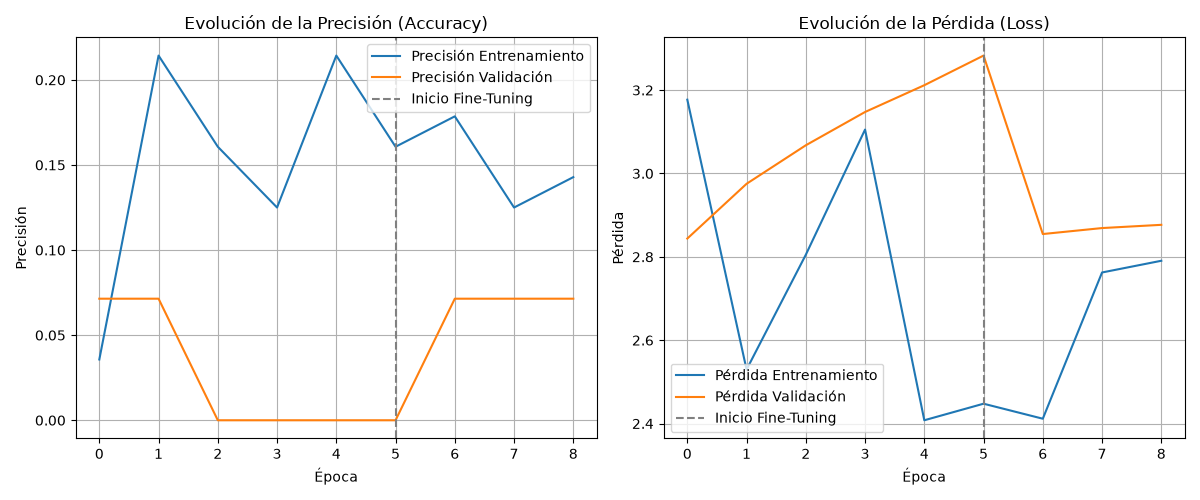
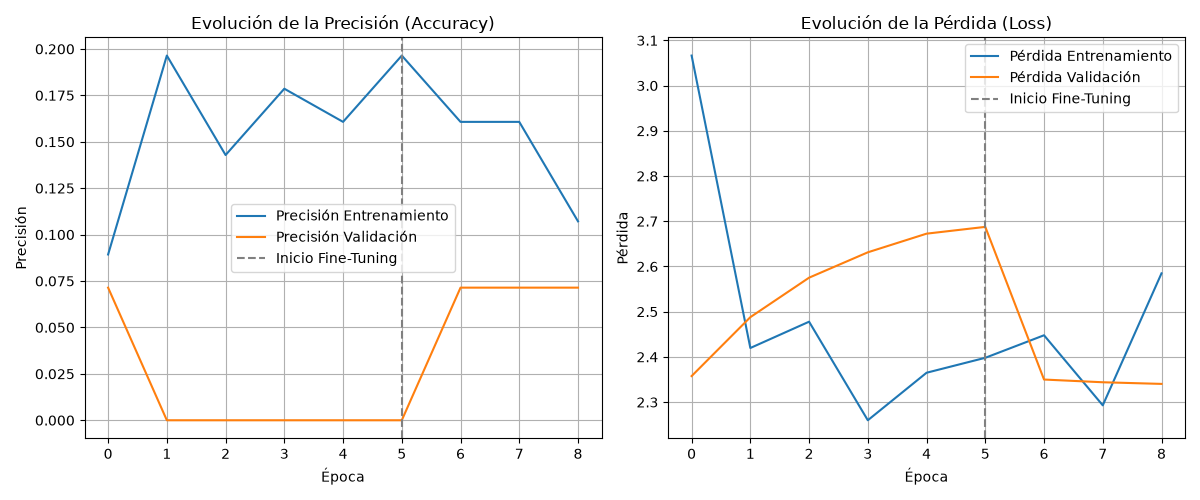
Actualizando

diff --git a/floravision.py b/floravision.py
@@ -74,13 +74,13 @@ def matriz_a_base64(imagen_np: np.ndarray, max_dim: int = 350) -> str:
         return ""
 
 IMAGENES_DEMO_FLORES = {
-    "Rosa": "https://images.unsplash.com/photo-1518709268805-4e9042af9f23?auto=format&fit=crop&w=400&q=80",
-    "Orquídea": "https://images.unsplash.com/photo-1525310072745-f49212b5ac6d?auto=format&fit=crop&w=400&q=80",
-    "Girasol": "https://images.unsplash.com/photo-1597848212624-a19eb35e2651?auto=format&fit=crop&w=400&q=80",
-    "Tulipán": "https://images.unsplash.com/photo-1520763185298-1b434c919102?auto=format&fit=crop&w=400&q=80",
-    "Margarita": "https://images.unsplash.com/photo-1606041008023-472dfb5e530f?auto=format&fit=crop&w=400&q=80",
-    "Clavel": "https://images.unsplash.com/photo-1582794543139-8ac9cb0f7b11?auto=format&fit=crop&w=400&q=80",
-    "Lirio": "https://images.unsplash.com/photo-1508610048659-a06b669e3321?auto=format&fit=crop&w=400&q=80",
+    "Rosa":     "https://images.unsplash.com/photo-1559563362-c667ba5f5480?auto=format&fit=crop&w=400&q=80",  # Rosa roja ✓
+    "Orquídea": "https://images.unsplash.com/photo-1566907225033-30b7e7f9ec0d?auto=format&fit=crop&w=400&q=80",  # Orquídea ✓
+    "Girasol":  "https://images.unsplash.com/photo-1597848212624-a19eb35e2651?auto=format&fit=crop&w=400&q=80",  # Girasol ✓
+    "Tulipán":  "https://images.unsplash.com/photo-1457296898342-cdd24585d095?auto=format&fit=crop&w=400&q=80",  # Tulipanes ✓
+    "Margarita":"https://images.unsplash.com/photo-1606041008023-472dfb5e530f?auto=format&fit=crop&w=400&q=80",  # Margarita ✓
+    "Clavel":   "https://images.unsplash.com/photo-1589994160839-163f4b26d962?auto=format&fit=crop&w=400&q=80",  # Clavel ✓
+    "Lirio":    "https://images.unsplash.com/photo-1570913149827-d2ac84ab3f9a?auto=format&fit=crop&w=400&q=80",  # Lirio ✓
 }
 
 from agentefloravision import AgenteFloraVision, PRECIOS_BASE
@@ -168,12 +168,18 @@ st.markdown(
             border-color: {MAROON} !important;
             transform: translateY(-1px);
         }}
+        /* Forzar texto oscuro en el botón FloraVision usando data-testid de máxima especificidad */
+        [data-testid="stSidebar"] [data-testid="stBaseButton-secondary"] p,
+        [data-testid="stSidebar"] [data-testid="stBaseButton-secondary"] span,
+        [data-testid="stSidebar"] [data-testid="stBaseButton-secondary"] div,
         .logo-btn-container div.stButton > button p,
+        .logo-btn-container div.stButton > button span,
+        .logo-btn-container div.stButton > button div,
         .logo-btn-container p,
         .floravision-logo p {{
             color: {TEXT_MAROON} !important;
             -webkit-text-fill-color: {TEXT_MAROON} !important;
-            font-family: 'Montserrat', sans-serif !important;
+            font-family: 'Georgia', serif !important;
             font-size: 1.8rem !important;
             font-weight: 800 !important;
             letter-spacing: -0.5px !important;
@@ -270,15 +276,10 @@ st.markdown(
             color: #FFFFFF !important;
         }}
 
-        /* Excepción en barra lateral: Logo FloraVision y pastillas del menú con texto oscuro */
+        /* Excepción en barra lateral: Pastillas del menú con texto oscuro */
         div[data-testid="stRadio"] label p,
         div[data-testid="stRadio"] label span,
-        div[data-testid="stRadio"] label div,
-        .logo-btn-container p,
-        .logo-btn-container div.stButton > button p,
-        .logo-btn-container div.stButton > button span,
-        .floravision-logo,
-        .floravision-logo p {{
+        div[data-testid="stRadio"] label div {{
             color: {TEXT_MAROON} !important;
             -webkit-text-fill-color: {TEXT_MAROON} !important;
             font-weight: bold !important;
@@ -341,12 +342,26 @@ st.markdown(
             font-weight: bold !important;
         }}
 
-        /* Selectbox y Dropdowns */
-        [data-testid="stSelectbox"] label,
-        [data-testid="stSelectbox"] div[data-baseweb="select"] span,
-        [data-testid="stSelectbox"] div[data-baseweb="select"] div {{
+        /* Selectbox y Dropdowns: Texto del valor en color claro (CREAM) */
+        [data-testid="stSelectbox"] label {{
             color: {TEXT_MAROON} !important;
             font-weight: 600 !important;
+        }}
+        [data-testid="stSelectbox"] div[data-baseweb="select"] {{
+            background-color: {MAROON} !important;
+            border-radius: 8px !important;
+        }}
+        [data-testid="stSelectbox"] div[data-baseweb="select"] span,
+        [data-testid="stSelectbox"] div[data-baseweb="select"] div,
+        [data-testid="stSelectbox"] div[data-baseweb="select"] div[value],
+        div[data-baseweb="select"] div[value] {{
+            color: {CREAM} !important;
+            -webkit-text-fill-color: {CREAM} !important;
+            font-weight: 600 !important;
+        }}
+        [data-testid="stSelectbox"] div[data-baseweb="select"] svg {{
+            fill: {CREAM} !important;
+            color: {CREAM} !important;
         }}
         [role="listbox"] li, [role="option"] {{
             color: {TEXT_MAROON} !important;
@@ -366,10 +381,39 @@ st.markdown(
             border-color: {MAROON} !important;
         }}
 
-        /* 5. Forzar fondo blanco y borde en File Uploader */
+        /* Botón de la cámara (Take Photo) con texto claro (CREAM) */
+        button[data-testid="stCameraInputButton"],
+        button[data-testid="stCameraInputButton"] *,
+        [data-testid="stCameraInputButton"],
+        [data-testid="stCameraInputButton"] * {{
+            background-color: {MAROON} !important;
+            color: {CREAM} !important;
+            -webkit-text-fill-color: {CREAM} !important;
+            font-weight: bold !important;
+        }}
+        button[data-testid="stCameraInputButton"] svg {{
+            fill: {CREAM} !important;
+            color: {CREAM} !important;
+        }}
+
+        /* File Uploader Dropzone con texto claro (CREAM) */
         [data-testid="stFileUploaderDropzone"] {{
-            background-color: white !important;
+            background-color: {MAROON} !important;
             border: 2px dashed {CARD_BORDER} !important;
+            border-radius: 12px !important;
+        }}
+        [data-testid="stFileUploaderDropzone"] p,
+        [data-testid="stFileUploaderDropzone"] span,
+        [data-testid="stFileUploaderDropzone"] small,
+        [data-testid="stFileUploaderDropzone"] div,
+        [data-testid="stFileUploaderDropzone"] button,
+        [data-testid="stFileUploaderDropzone"] label {{
+            color: {CREAM} !important;
+            -webkit-text-fill-color: {CREAM} !important;
+        }}
+        [data-testid="stFileUploaderDropzone"] svg {{
+            fill: {CREAM} !important;
+            color: {CREAM} !important;
         }}
 
         .main-section-title {{
@@ -400,6 +444,50 @@ st.markdown(
         }}
         .dashboard-box-light * {{
             color: {TEXT_MAROON} !important;
+        }}
+
+        /* EXPANDERS (st.expander): Fondo oscuro bordó y texto claro en el resumen/título del acordeón */
+        [data-testid="stExpander"],
+        details {{
+            background-color: {MAROON} !important;
+            border: 2px solid {CARD_BORDER} !important;
+            border-radius: 16px !important;
+            overflow: hidden !important;
+            margin-bottom: 1rem !important;
+        }}
+        [data-testid="stExpander"] summary,
+        details summary {{
+            background-color: {MAROON} !important;
+            border-radius: 14px !important;
+            padding: 0.75rem 1rem !important;
+            cursor: pointer !important;
+            transition: background-color 0.2s ease !important;
+        }}
+        [data-testid="stExpander"] summary:hover,
+        details summary:hover {{
+            background-color: #7A0040 !important;
+        }}
+        [data-testid="stExpander"] summary,
+        [data-testid="stExpander"] summary p,
+        [data-testid="stExpander"] summary span,
+        [data-testid="stExpander"] summary div,
+        [data-testid="stExpander"] summary svg,
+        details summary,
+        details summary p,
+        details summary span,
+        details summary div,
+        details summary svg {{
+            color: {CREAM} !important;
+            -webkit-text-fill-color: {CREAM} !important;
+            font-weight: 600 !important;
+        }}
+        [data-testid="stExpander"] summary [data-testid="stIconMaterial"],
+        details summary [data-testid="stIconMaterial"],
+        [data-testid="stExpander"] summary svg path,
+        details summary svg path {{
+            color: {CREAM} !important;
+            fill: {CREAM} !important;
+            -webkit-text-fill-color: {CREAM} !important;
         }}
     </style>
     """,
@@ -530,7 +618,6 @@ def render_deteccion():
     st.markdown('<div class="section-title">Deteccion Inteligente</div>', unsafe_allow_html=True)
 
     agente = st.session_state.agente
-    flores_disponibles = [f.capitalize() for f in list(PRECIOS_BASE.keys())]
 
     # ------------------------------------------------------------------
     # COLUMNA IZQUIERDA: Controles (replica los trackbars de cv_taskbar.py)
@@ -539,32 +626,18 @@ def render_deteccion():
 
     with col_ctrl:
         with st.container(border=True):
-            st.markdown(f'<div style="font-family:Georgia,serif;font-weight:bold;font-size:1rem;color:{TEXT_MAROON};margin-bottom:4px;">Tipo de Flor</div>', unsafe_allow_html=True)
-            st.caption("&#129302; La IA identificará la flor automáticamente al cargar la foto. También puedes seleccionarla manualmente.")
-            tipo_flor = st.selectbox(
-                "Tipo de Flor",
-                flores_disponibles,
-                index=0,
-                key="selectbox_flor",
-                label_visibility="collapsed",
-            )
-
-            st.divider()
-
             # Rueda de colores automática en vez de 6 sliders HSV
             st.markdown(f'<div style="font-family:Georgia,serif;font-weight:bold;font-size:1rem;color:{TEXT_MAROON};margin-bottom:4px;">Color de la Flor (Pétalos Sanos)</div>', unsafe_allow_html=True)
             st.caption("Toca el círculo para elegir el color exacto. El sistema calibrará los parámetros de detección automáticamente.")
 
-            if "color_seleccionado" not in st.session_state:
-                st.session_state.color_seleccionado = "#E60000"
             if "cp_flor" not in st.session_state:
-                st.session_state["cp_flor"] = st.session_state.color_seleccionado
+                st.session_state["cp_flor"] = "#E60000"
+            st.session_state.color_seleccionado = st.session_state["cp_flor"]
 
             col_picker, col_info = st.columns([1, 2.2])
             with col_picker:
                 color_elegido = st.color_picker(
                     "Seleccionar color",
-                    value=st.session_state.color_seleccionado,
                     key="cp_flor",
                     label_visibility="collapsed",
                 )
@@ -588,8 +661,8 @@ def render_deteccion():
             ]
 
             def _cb_aplicar_preset(hex_val):
-                st.session_state.color_seleccionado = hex_val
                 st.session_state["cp_flor"] = hex_val
+                st.session_state.color_seleccionado = hex_val
 
             for col_p, (label, hex_val, key_p) in zip(preset_cols, presets):
                 with col_p:
@@ -602,7 +675,7 @@ def render_deteccion():
                     )
 
             # Ajuste automático por detrás (rango HSV calculado en backend)
-            rangos = hex_a_rangos_hsv(st.session_state.color_seleccionado)
+            rangos = hex_a_rangos_hsv(color_elegido)
             h_min = rangos["h_min"]
             h_max = rangos["h_max"]
             s_min = rangos["s_min"]
@@ -799,12 +872,9 @@ def render_deteccion():
         with st.spinner("Procesando visión por computadora e inferencia con IA..."):
             res_ia = clasificar_flor_ia(imagen_np) if VISION_DISPONIBLE else {"modelo_activo": False}
 
-            # Si la IA identifica la flor con confianza > 40%, usamos esa especie automáticamente
-            tipo_evaluado = tipo_flor
-            if res_ia.get("modelo_activo") and res_ia.get("confianza", 0) > 40:
-                especie_ia = res_ia["especie"].lower()
-                if especie_ia in PRECIOS_BASE:
-                    tipo_evaluado = especie_ia
+            # Usar la especie identificada por el modelo de IA o fallback a "rosa"
+            especie_predicha = res_ia.get("especie", "Rosa") if res_ia.get("modelo_activo") else "Rosa"
+            tipo_evaluado = especie_predicha.lower() if especie_predicha.lower() in PRECIOS_BASE else "rosa"
 
             # Utilizar el porcentaje exacto ya calculado en la vista previa de OpenCV para garantizar consistencia 100%
             pct_marchito = pct_preview
@@ -916,7 +986,7 @@ def render_deteccion():
             st.markdown('<div style="margin-top:16px;"></div>', unsafe_allow_html=True)
             with st.expander("🧠 ¿Predicción incorrecta / La IA se equivocó? Corregir y Entrenar por Refuerzo", expanded=False):
                 st.markdown(
-                    f'<div style="font-size:0.88rem; color:{TEXT_MAROON}; margin-bottom:8px;">'
+                    f'<div style="font-size:0.88rem; color:{CREAM}; margin-bottom:8px;">'
                     'Si la IA predijo una flor equivocada, selecciona la especie real. El sistema aplicará '
                     '<b>Aprendizaje por Refuerzo (Reinforcement Fine-Tuning)</b> para actualizar inmediatamente '
                     'los pesos del modelo y recalcular los precios del inventario sin ingresar malas predicciones.</div>',
@@ -1558,7 +1628,7 @@ def render_entrenamiento():
                         "--sample-dataset"
                     ]
                     
-                    res = subprocess.run(cmd, capture_output=True, text=True)
+                    res = subprocess.run(cmd, capture_output=True, text=True, encoding="utf-8", errors="replace")
                     if res.returncode == 0:
                         st.success("✅ ¡Modelo entrenado y exportado exitosamente a modelo_flores.h5 y modelo_flores.keras!")
                         import analisis_imagen

diff --git a/feature-training/train_model.py b/feature-training/train_model.py
@@ -13,6 +13,19 @@ Uso:
 
 import os
 import sys
+
+# Forzar codificación UTF-8 en stdout y stderr para evitar UnicodeEncodeError en Windows (CP1252)
+if hasattr(sys.stdout, 'reconfigure'):
+    try:
+        sys.stdout.reconfigure(encoding='utf-8', errors='replace')
+    except Exception:
+        pass
+if hasattr(sys.stderr, 'reconfigure'):
+    try:
+        sys.stderr.reconfigure(encoding='utf-8', errors='replace')
+    except Exception:
+        pass
+
 import argparse
 from pathlib import Path
 import numpy as np
@@ -116,22 +129,39 @@ def construir_modelo_flores(model_type: str = "mobilenet", num_classes: int = le
     x = obtener_capa_data_augmentation()(inputs)
     
     # 2. Carga y Normalización del modelo preentrenado en ImageNet
-    if model_type.lower() == "resnet":
-        print("🏗 Cargando modelo base: ResNet50 (preentrenado en ImageNet)...")
-        x = tf.keras.applications.resnet50.preprocess_input(x)
-        base_model = tf.keras.applications.ResNet50(
-            weights="imagenet",
-            include_top=False,
-            input_tensor=x
-        )
-    else:
-        print("🏗 Cargando modelo base: MobileNetV2 (preentrenado en ImageNet)...")
-        x = tf.keras.applications.mobilenet_v2.preprocess_input(x)
-        base_model = tf.keras.applications.MobileNetV2(
-            weights="imagenet",
-            include_top=False,
-            input_tensor=x
-        )
+    try:
+        if model_type.lower() == "resnet":
+            print("🏗 Cargando modelo base: ResNet50 (preentrenado en ImageNet)...")
+            x = tf.keras.applications.resnet50.preprocess_input(x)
+            base_model = tf.keras.applications.ResNet50(
+                weights="imagenet",
+                include_top=False,
+                input_tensor=x
+            )
+        else:
+            print("🏗 Cargando modelo base: MobileNetV2 (preentrenado en ImageNet)...")
+            x = tf.keras.applications.mobilenet_v2.preprocess_input(x)
+            base_model = tf.keras.applications.MobileNetV2(
+                weights="imagenet",
+                include_top=False,
+                input_tensor=x
+            )
+    except Exception as err_weights:
+        print(f"⚠ Detectado archivo de pesos corrupto o incompleto en caché ({err_weights}). Limpiando caché...")
+        keras_models_dir = Path.home() / ".keras" / "models"
+        if keras_models_dir.exists():
+            for f_h5 in keras_models_dir.glob("*.h5"):
+                try:
+                    f_h5.unlink()
+                except Exception:
+                    pass
+        print("🔄 Reintentando descarga limpia de los pesos del modelo...")
+        if model_type.lower() == "resnet":
+            x = tf.keras.applications.resnet50.preprocess_input(x)
+            base_model = tf.keras.applications.ResNet50(weights="imagenet", include_top=False, input_tensor=x)
+        else:
+            x = tf.keras.applications.mobilenet_v2.preprocess_input(x)
+            base_model = tf.keras.applications.MobileNetV2(weights="imagenet", include_top=False, input_tensor=x)
 
     # Congelar capas del modelo preentrenado inicialmente
     base_model.trainable = False
@@ -162,9 +192,11 @@ def entrenar_modelo(dataset_dir: Path, model_type: str = "mobilenet", epochs: in
         
     print(f"📊 Cargando dataset desde: {dataset_dir}")
     
+    clases_target = [c.lower() for c in CLASES_FLORES]
     try:
         train_ds = tf.keras.utils.image_dataset_from_directory(
             dataset_dir,
+            class_names=clases_target,
             validation_split=0.2,
             subset="training",
             seed=123,
@@ -175,6 +207,7 @@ def entrenar_modelo(dataset_dir: Path, model_type: str = "mobilenet", epochs: in
 
         val_ds = tf.keras.utils.image_dataset_from_directory(
             dataset_dir,
+            class_names=clases_target,
             validation_split=0.2,
             subset="validation",
             seed=123,
@@ -187,11 +220,11 @@ def entrenar_modelo(dataset_dir: Path, model_type: str = "mobilenet", epochs: in
         print("🔄 Recreando dataset de muestra seguro...")
         preparar_dataset_muestra(dataset_dir)
         train_ds = tf.keras.utils.image_dataset_from_directory(
-            dataset_dir, validation_split=0.2, subset="training", seed=123,
+            dataset_dir, class_names=clases_target, validation_split=0.2, subset="training", seed=123,
             image_size=IMG_SIZE, batch_size=batch_size, label_mode="categorical"
         )
         val_ds = tf.keras.utils.image_dataset_from_directory(
-            dataset_dir, validation_split=0.2, subset="validation", seed=123,
+            dataset_dir, class_names=clases_target, validation_split=0.2, subset="validation", seed=123,
             image_size=IMG_SIZE, batch_size=batch_size, label_mode="categorical"
         )
 
